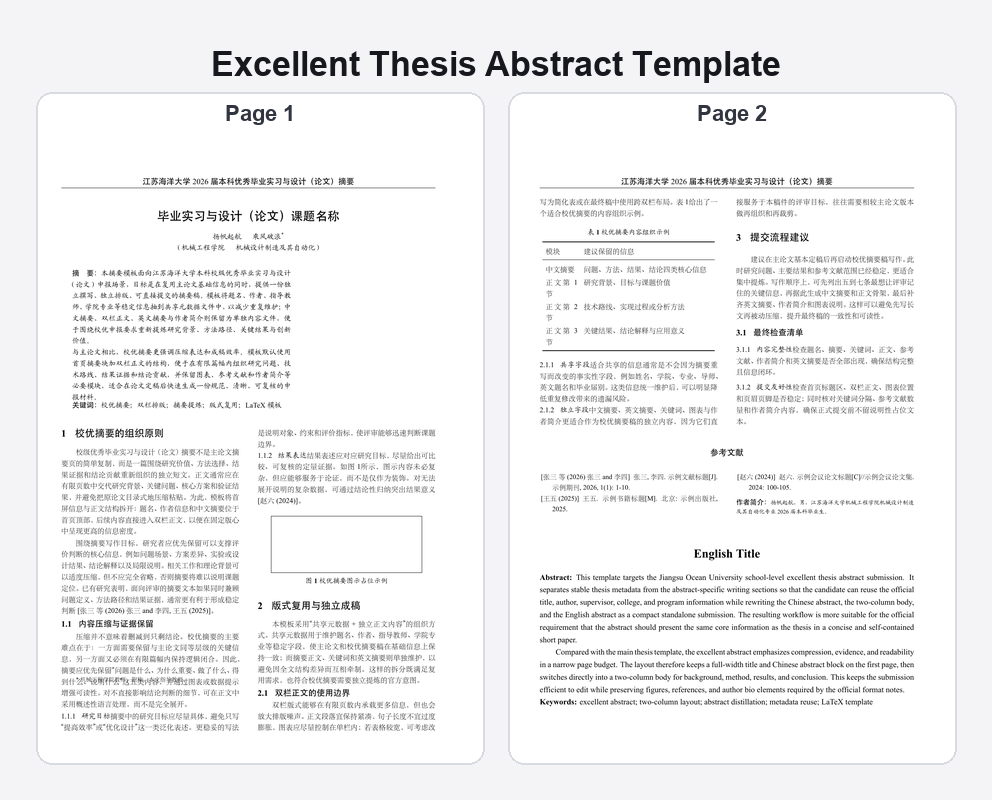
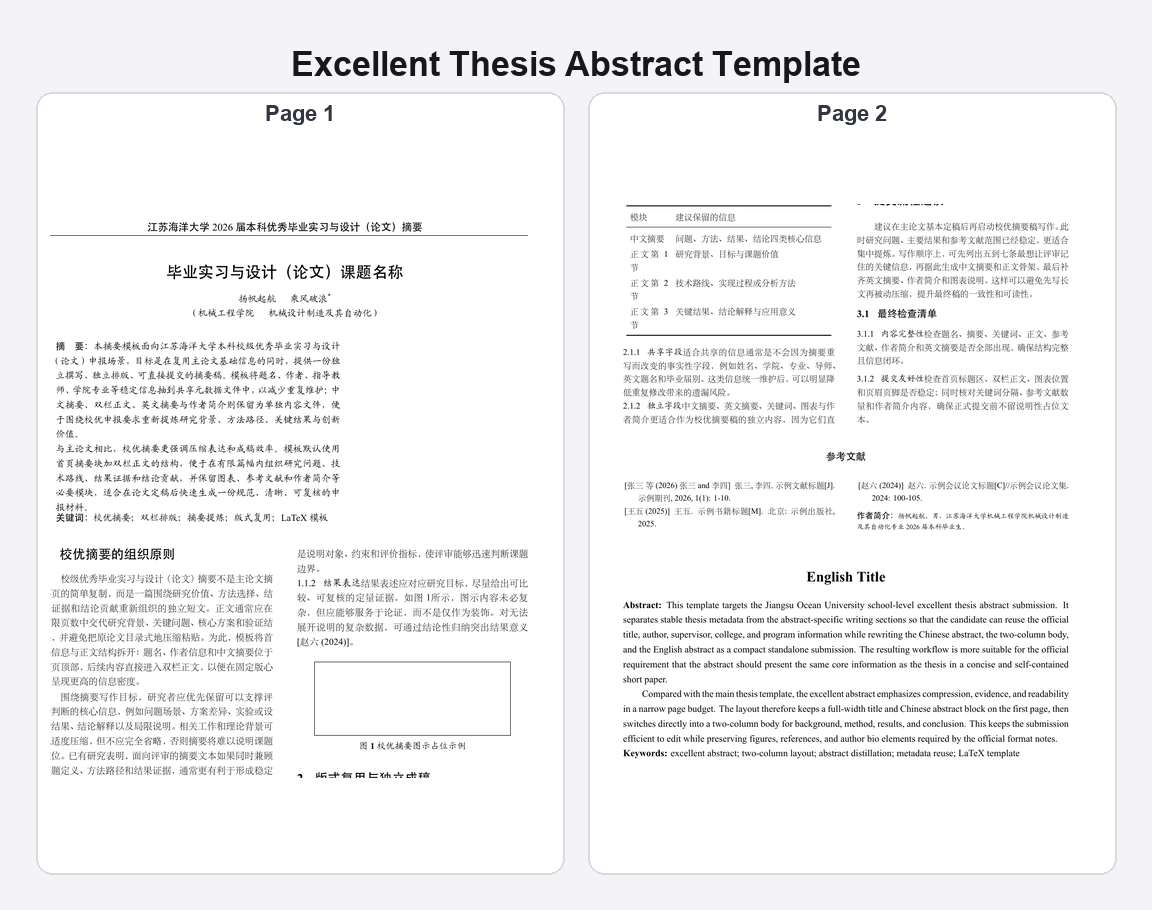
docs: zoom excellent abstract preview

diff --git a/scripts/generate_readme_images.py b/scripts/generate_readme_images.py
@@ -33,7 +33,7 @@ DPI = 140
 CONTENT_BOX = (760, 1080)
 FORM_CONTENT_BOX = (500, 700)
 GALLERY_TILE_BOX = (360, 470)
-EXCELLENT_TILE_BOX = (420, 610)
+EXCELLENT_TILE_BOX = (500, 720)
 
 
 @dataclass(frozen=True)
@@ -114,8 +114,8 @@ THESIS_GALLERY_SPECS = (
 )
 
 EXCELLENT_GALLERY_SPECS = (
-    GallerySpec("Page 1", EXCELLENT_ABSTRACT_PDF, 1, (65, 55, 1135, 1545)),
-    GallerySpec("Page 2", EXCELLENT_ABSTRACT_PDF, 2, (65, 55, 1135, 1545)),
+    GallerySpec("Page 1", EXCELLENT_ABSTRACT_PDF, 1, (110, 120, 1090, 1210)),
+    GallerySpec("Page 2", EXCELLENT_ABSTRACT_PDF, 2, (65, 280, 1135, 1545)),
 )
 
 
